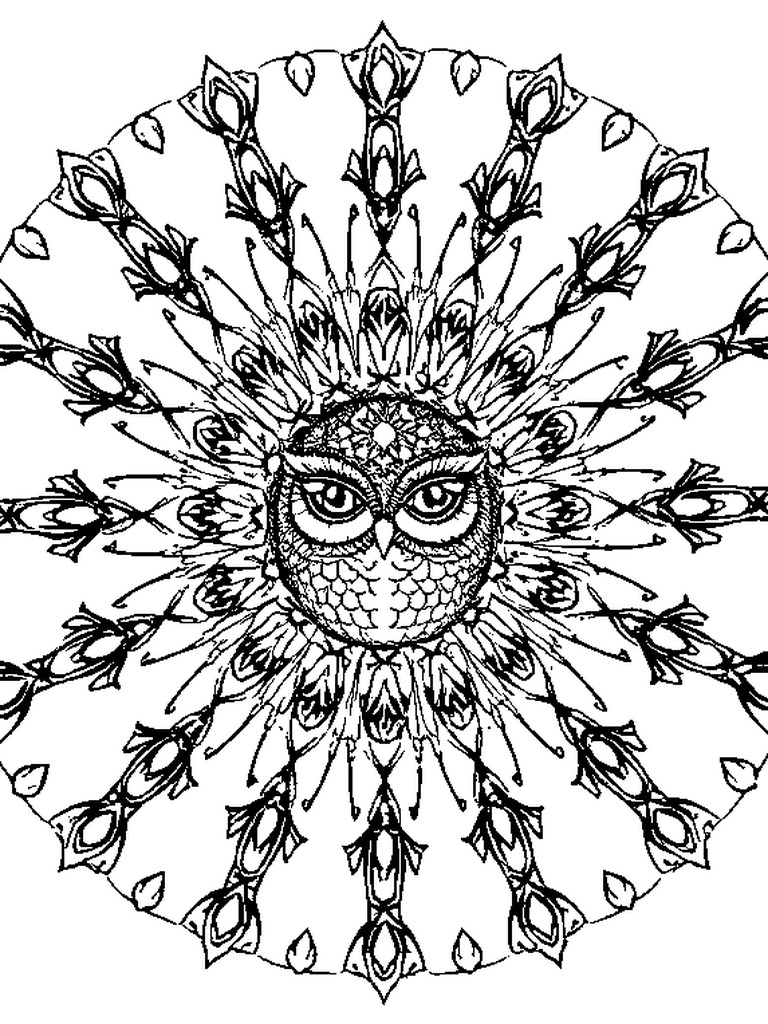
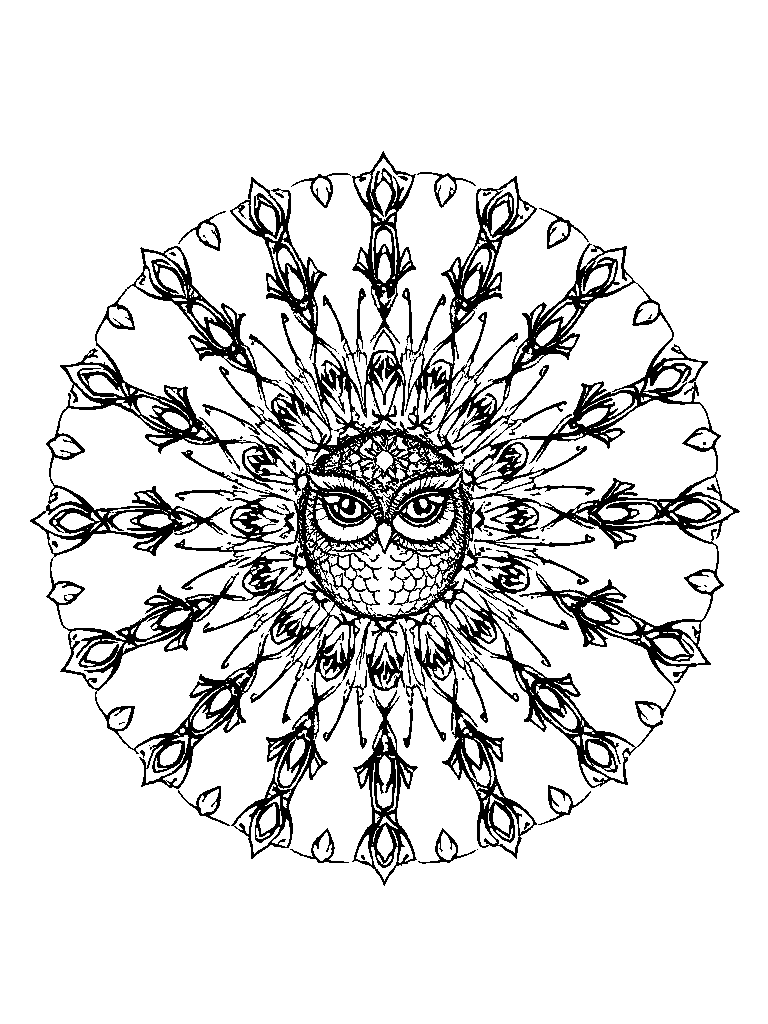
fix: style thumbnail card white background + object-contain for full mandala view

diff --git a/src/app/generate/page.tsx b/src/app/generate/page.tsx
@@ -389,8 +389,8 @@ function GenerateContent() {
                           : "border-[#E5E0D5] hover:border-[#FFB800]/50"
                       )}
                     >
-                      <div className="aspect-[3/4] bg-gray-100">
-                        <img src={style.thumbnail} alt={style.label} className="w-full h-full object-cover" />
+                      <div className="aspect-[3/4] bg-white">
+                        <img src={style.thumbnail} alt={style.label} className="w-full h-full object-contain" />
                       </div>
                       <div className="p-1.5 text-center">
                         <div className="text-[10px] font-semibold text-foreground">{style.emoji} {style.label}</div>